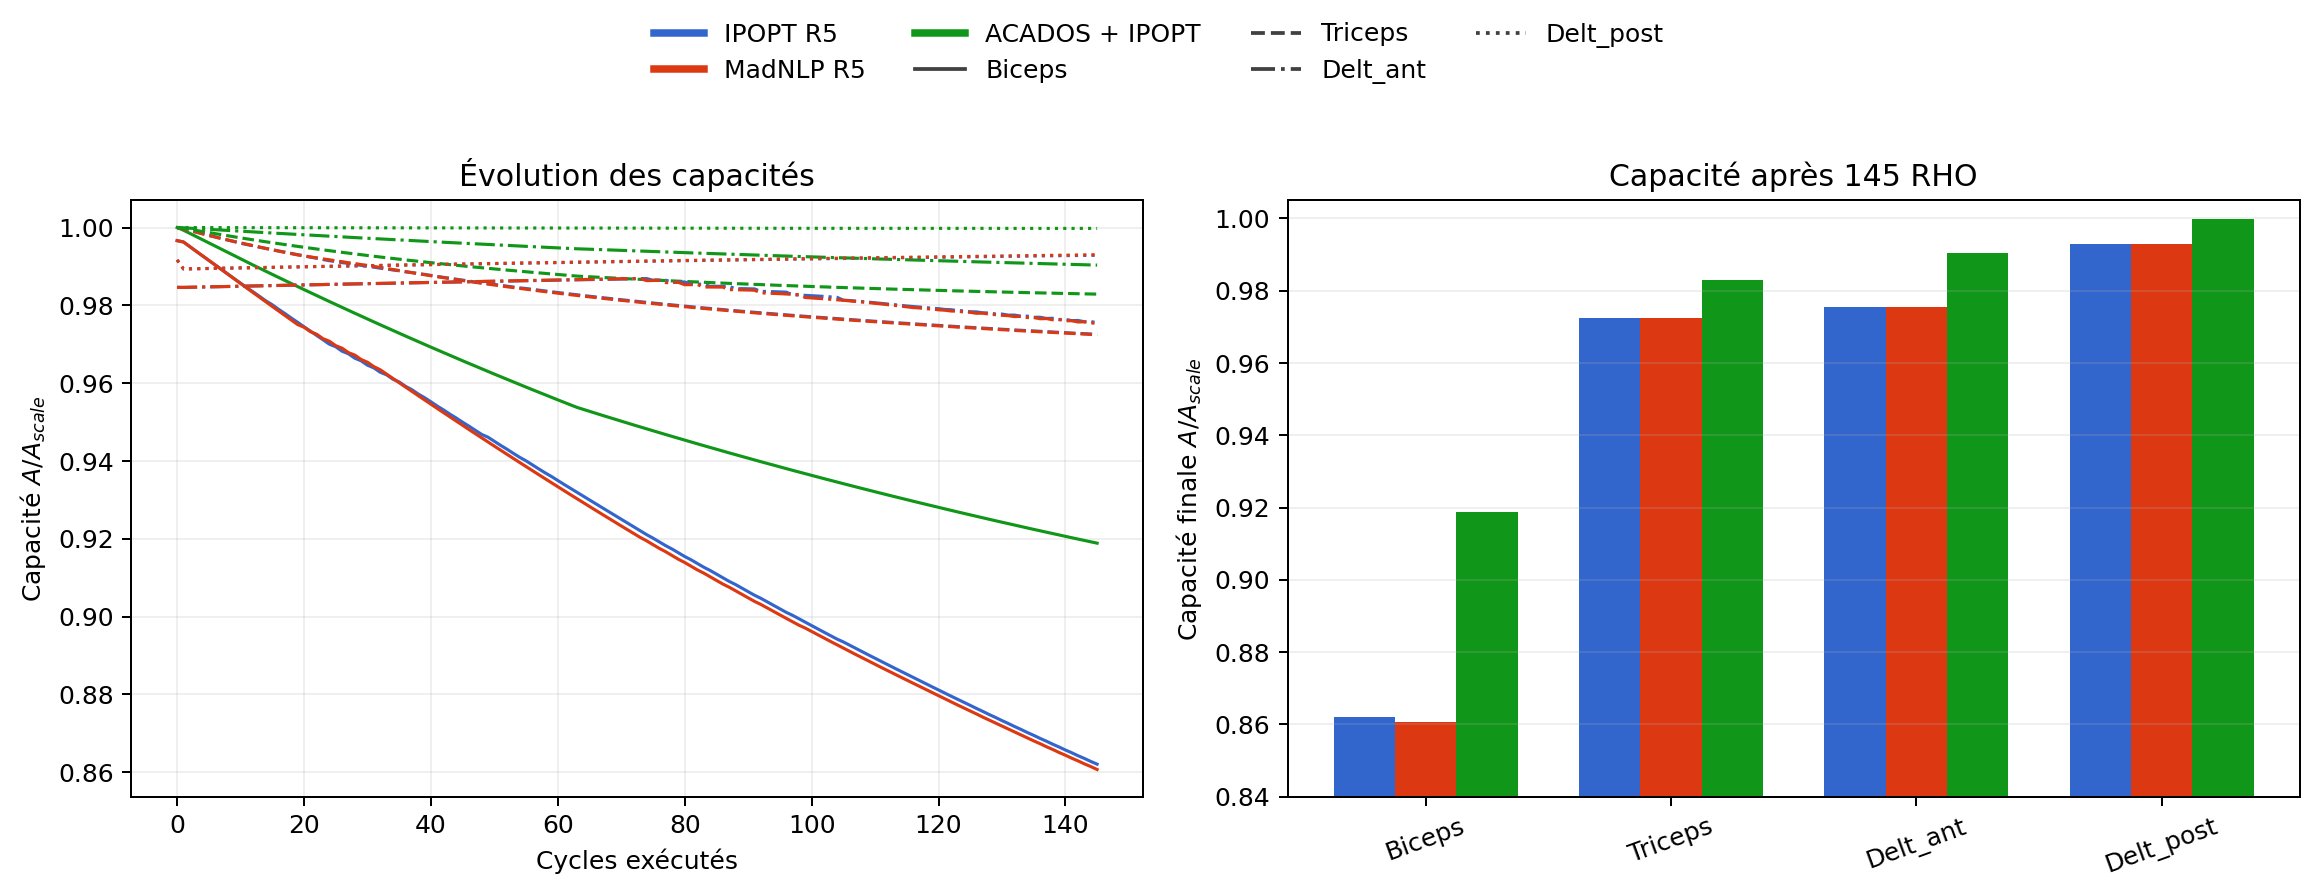
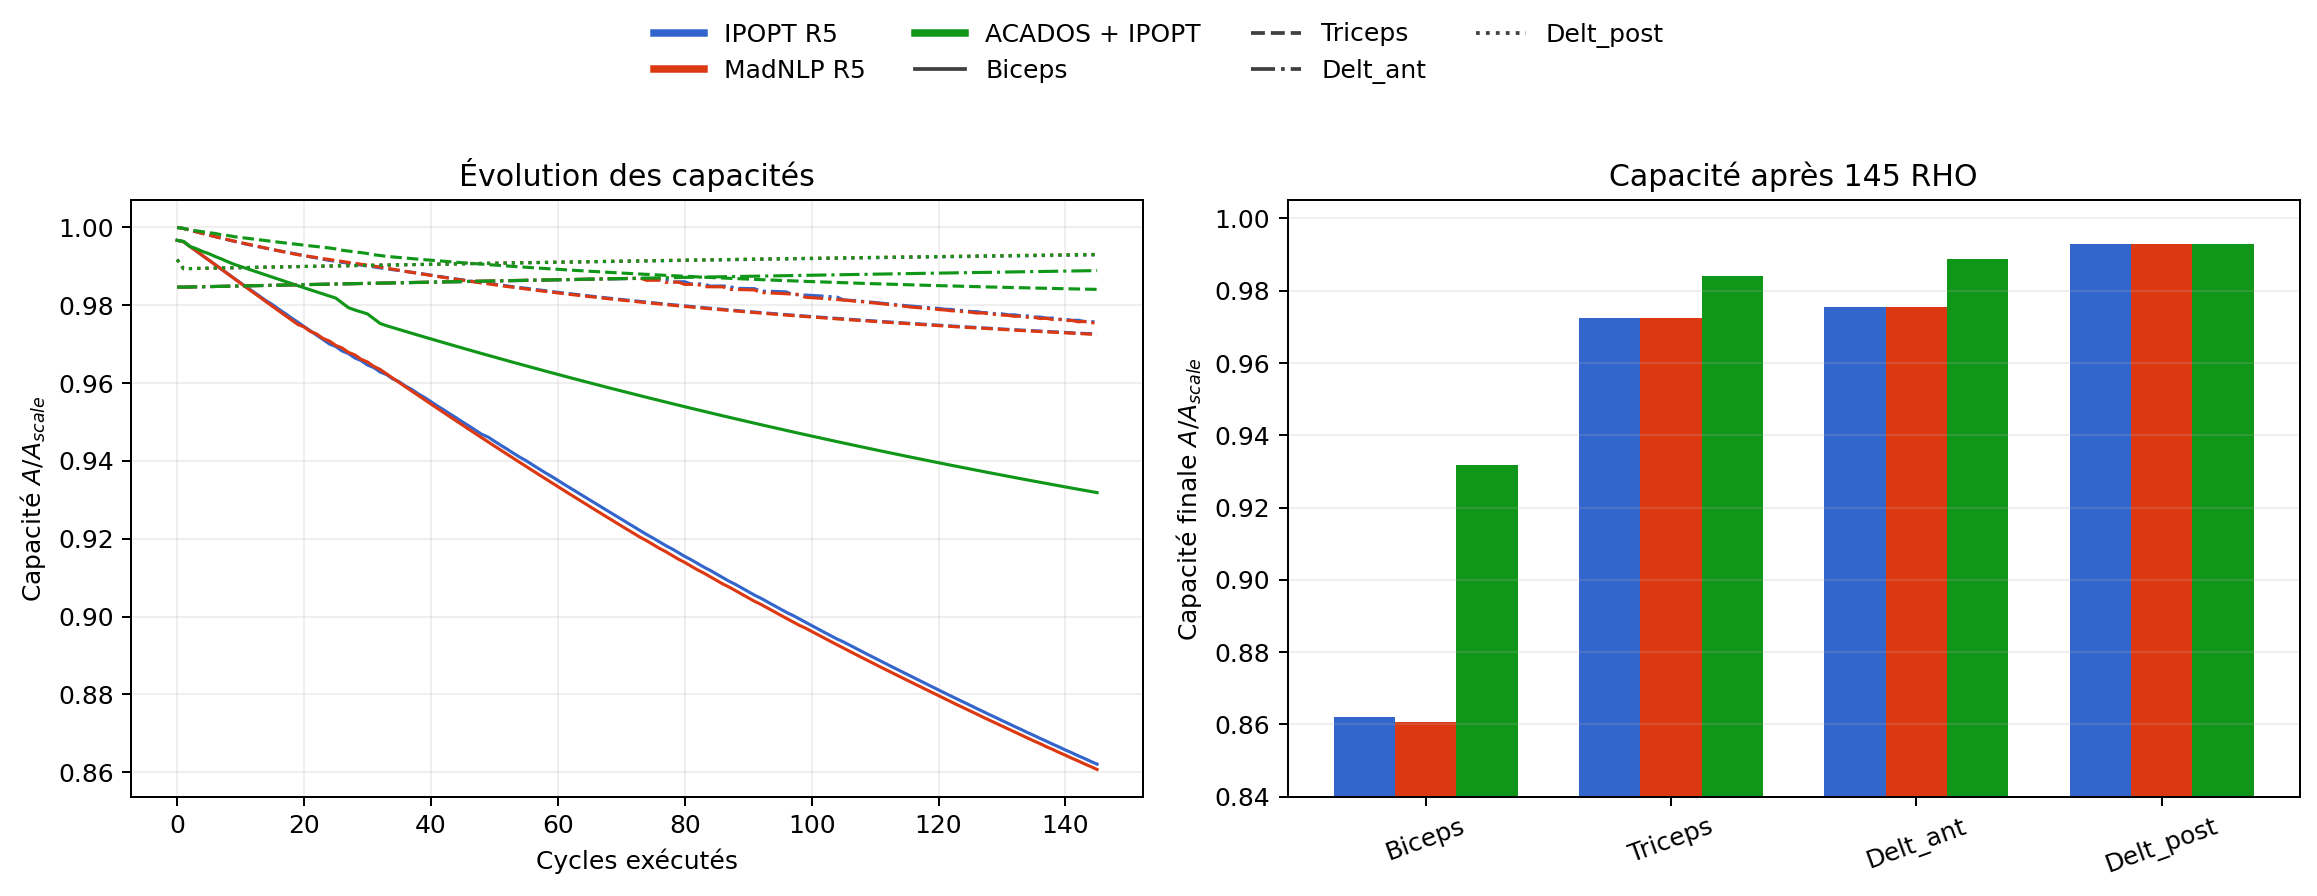
Publish paired reduced solver comparison

diff --git a/docs/cycling_solver_benchmark/generate_reduced_solver_comparison.py b/docs/cycling_solver_benchmark/generate_reduced_solver_comparison.py
@@ -19,9 +19,9 @@ import numpy as np
 MUSCLES = ("Biceps", "Triceps", "Delt_ant", "Delt_post")
 COLORS = {"IPOPT R5": "#3366cc", "MadNLP R5": "#dc3912", "ACADOS + IPOPT": "#109618"}
 DEFAULT_SOURCE_RUNS = {
-    "IPOPT R5": 31380186719,
-    "MadNLP R5": 31380186719,
-    "ACADOS + IPOPT": 31428024125,
+    "IPOPT R5": 31441917891,
+    "MadNLP R5": 31441917891,
+    "ACADOS + IPOPT": 31494271965,
 }
 PW_MIN_US = 131.405
 PW_MAX_US = 600.0
@@ -377,7 +377,12 @@ def _plot_timing(data: dict, cycles: int, output: Path) -> None:
     names = list(data)
     medians = [data[name]["timing"]["hot_solver_median_s"] for name in names]
     p90s = [data[name]["timing"]["hot_solver_p90_s"] for name in names]
-    totals = [data[name]["timing"]["online_wall_total_s"] for name in names]
+    solve_chain_totals = [
+        data[name]["timing"]["online_wall_total_s"] for name in names
+    ]
+    pipeline_totals = [
+        data[name]["timing"]["rho_pipeline_wall_total_s"] for name in names
+    ]
     fig, axes = plt.subplots(1, 2, figsize=(11, 4.8))
     x = np.arange(len(names))
     axes[0].bar(
@@ -403,11 +408,29 @@ def _plot_timing(data: dict, cycles: int, output: Path) -> None:
     axes[0].set_title("Latence en ligne")
     axes[0].legend(frameon=False)
     axes[0].grid(axis="y", alpha=0.2)
-    bars = axes[1].bar(x, totals, color=[COLORS[n] for n in names], alpha=0.85)
+    solve_bars = axes[1].bar(
+        x - 0.18,
+        solve_chain_totals,
+        0.36,
+        color=[COLORS[n] for n in names],
+        alpha=0.85,
+        label="appels solveur",
+    )
+    pipeline_bars = axes[1].bar(
+        x + 0.18,
+        [np.nan if value is None else value for value in pipeline_totals],
+        0.36,
+        color=[COLORS[n] for n in names],
+        hatch="//",
+        alpha=0.45,
+        label="pipeline RHO complet",
+    )
     axes[1].set_xticks(x, names, rotation=15)
-    axes[1].set_ylabel("Temps mur-à-mur en ligne cumulé (s)")
-    axes[1].set_title(f"Somme des {cycles} fenêtres")
-    axes[1].bar_label(bars, fmt="%.1f s", padding=3)
+    axes[1].set_ylabel("Temps mur-à-mur cumulé (s)")
+    axes[1].set_title(f"Somme des {cycles} RHO après construction")
+    axes[1].bar_label(solve_bars, fmt="%.1f s", padding=3)
+    axes[1].bar_label(pipeline_bars, fmt="%.1f s", padding=3)
+    axes[1].legend(frameon=False)
     axes[1].grid(axis="y", alpha=0.2)
     fig.tight_layout()
     fig.savefig(output, dpi=180, bbox_inches="tight")

diff --git a/docs/cycling_solver_benchmark/README.md b/docs/cycling_solver_benchmark/README.md
@@ -1313,34 +1313,34 @@ aucune assistance externe, mécanique reduced, force passive active, calcium
 `exact_exponential_periodic_node` et PW dans
 `[pd0 = 131.405 µs, 600 µs]`. IPOPT/MUMPS et MadNLP/MUMPS utilisent
 SX/Radau-5; ACADOS utilise le profil SQP-IRK `4 stages × 5 steps`. Le nom
-« ACADOS + IPOPT » désigne la chaîne de production hybride, mais aucun fallback
-n'est déclenché dans les 145 premiers RHO de ce run. Le premier fallback
-accepté se trouve au RHO 234.
+« ACADOS + IPOPT » désigne la chaîne hybride : ACADOS résout normalement le
+RHO et IPOPT/Radau-5 ne peut le remplacer qu'après deux échecs ACADOS et un
+certificat indépendant de convergence et de faisabilité.
 
 Les artefacts sources sont ceux du run apparié
 [31441917891](https://github.com/mickaelbegon/cocofest/actions/runs/31441917891)
-pour IPOPT/MadNLP et du run historique
-[31428024125](https://github.com/mickaelbegon/cocofest/actions/runs/31428024125)
-pour ACADOS + IPOPT. Les temps ci-dessous sont les sommes des champs
-`wall_time_s` des 145 fenêtres : ils excluent la construction initiale, la
-préparation du seed et le post-traitement, conformément à la question du temps
-de résolution une fois l'OCP construit.
+pour IPOPT/MadNLP et du run apparié et physiquement certifié
+[31494271965](https://github.com/mickaelbegon/cocofest-pedalage/actions/runs/31494271965)
+pour ACADOS + IPOPT. Les trois trajectoires partent du même état initial. Les
+temps excluent la construction initiale. « Appels solveur » additionne tous les
+essais, échecs et recoveries; « pipeline » mesure toute la boucle RHO, transfert
+et orchestration Bioptim compris.
 
-| Méthode | RHO certifiés | Médiane / P90 solveur chaud | Temps online cumulé | AUC fatigue | Coût fatigue exécuté | Min. capacité finale |
-|---|---:|---:|---:|---:|---:|---:|
-| IPOPT R5 | 145/145 | `2.649 / 4.130 s` | `529.92 s` | `17.1324` | `11 523.5` | `0.86209` |
-| MadNLP R5 | 145/145 | `1.433 / 1.669 s` | `220.60 s` | `17.3066` | `11 830.6` | `0.86072` |
-| ACADOS + IPOPT | 145/145 | `0.133 / 0.134 s` | `21.02 s` | `9.3835` | `4 317.8` | `0.91888` |
+| Méthode | RHO certifiés | Médiane / P90 chaud | Appels solveur | Pipeline RHO | AUC fatigue | Coût exécuté | Min. capacité finale |
+|---|---:|---:|---:|---:|---:|---:|---:|
+| IPOPT R5 | 145/145 | `2.649 / 4.130 s` | `529.92 s` | `786.42 s` | `17.1324` | `11 523.5` | `0.86209` |
+| MadNLP R5 | 145/145 | `1.433 / 1.669 s` | `220.60 s` | `438.95 s` | `17.3066` | `11 830.6` | `0.86072` |
+| ACADOS + IPOPT | 145/145 | `0.124 / 0.319 s` | `93.44 s` | `107.23 s` | `10.6541` | `3 471.2` | `0.93183` |
 
 La fatigue finale et son accumulation ne se répartissent pas uniformément. Le
 tableau donne `capacité finale A/A_scale / AUC de fatigue` :
 
 | Muscle | IPOPT R5 | MadNLP R5 | ACADOS + IPOPT |
 |---|---:|---:|---:|
-| Biceps | `0.86209 / 10.9379` | `0.86072 / 11.0917` | `0.91888 / 6.8584` |
-| Triceps | `0.97256 / 2.5136` | `0.97245 / 2.5251` | `0.98288 / 1.6916` |
-| Deltoïde antérieur | `0.97554 / 2.4094` | `0.97548 / 2.4271` | `0.99034 / 0.8113` |
-| Deltoïde postérieur | `0.99287 / 1.2715` | `0.99300 / 1.2627` | `0.99978 / 0.0222` |
+| Biceps | `0.86209 / 10.9379` | `0.86072 / 11.0917` | `0.93183 / 5.9230` |
+| Triceps | `0.97256 / 2.5136` | `0.97245 / 2.5251` | `0.98404 / 1.5594` |
+| Deltoïde antérieur | `0.97554 / 2.4094` | `0.97548 / 2.4271` | `0.98886 / 1.9089` |
+| Deltoïde postérieur | `0.99287 / 1.2715` | `0.99300 / 1.2627` | `0.99300 / 1.2628` |
 
 Sur ce préfixe, MadNLP est `1.85×` plus rapide qu'IPOPT en médiane chaude et
 `2.40×` sur la somme online. Leurs solutions sont proches : par rapport à
@@ -1350,18 +1350,20 @@ triceps; les MAE correspondantes valent `4.33 µs` et `1.55 µs`. Elles ne sont
 cependant pas identiques : un changement isolé d'ensemble actif atteint
 `468.6 µs` au biceps.
 
-ACADOS est `25.2×` plus rapide qu'IPOPT et `10.5×` plus rapide que MadNLP sur
-la somme online de ces 145 fenêtres. Il produit aussi une AUC `45.2 %` plus
-faible qu'IPOPT et conserve une capacité biceps finale de `0.91888`, contre
-`0.86209`. Ce résultat ne permet **pas encore** d'affirmer qu'ACADOS trouve un
-meilleur optimum du même problème. Ses PW biceps sont très différentes de
-celles d'IPOPT (`MAE = 40.14 µs`, corrélation `-0.052`) et, surtout, les
-trajectoires historiques n'ont pas exactement le même état musculaire initial :
-ACADOS part de `A/A_scale = 1` pour les quatre muscles, tandis que le seed
-IPOPT/MadNLP vaut initialement `0.99663` au biceps, `0.98463` au deltoïde
-antérieur, `0.99169` au deltoïde postérieur et `0.99992` au triceps. Une partie
-de l'écart de fatigue est donc antérieure aux décisions comparées. Les
-transcriptions Radau-5 et IRK sont également différentes.
+Le pipeline hybride est `7.33×` plus rapide qu'IPOPT et `4.09×` plus rapide
+que MadNLP. Seuls les RHO 25, 26, 30 et 31 sont avancés par IPOPT; ACADOS
+reprend seul jusqu'au RHO 145. Les huit recoveries IPOPT coûtent `26.68 s`.
+L'audit IRK dense ne relève aucune violation de vitesse et l'angle terminal
+respecte le slack absolu `0.002 rad`.
+
+ACADOS produit une AUC `37.8 %` plus faible qu'IPOPT et conserve une capacité
+biceps finale de `0.93183`. Ce résultat ne permet **pas encore** d'affirmer
+qu'il trouve un meilleur optimum du même problème. Malgré l'état initial
+désormais identique, ses PW restent très différentes : contre IPOPT, la MAE et
+la corrélation valent `37.46 µs / 0.020` au biceps et
+`10.81 µs / 0.040` au triceps. Il faut encore rejouer les PW ACADOS sous
+Radau-5 puis raffiner ce primal avec IPOPT pour séparer un meilleur bassin
+local d'un écart de transcription IRK/Radau-5.
 
 ![Profils de PW aux RHO 1, 30, 100 et 145](figures/reduced_solver_comparison_145/reduced_solver_pw_profiles_145.png)
 
@@ -1378,39 +1380,14 @@ sur tous les points exportés de chaque transcription et écrit les figures ains
 que le résumé numérique
 [`reduced_solver_comparison_145.json`](figures/reduced_solver_comparison_145/reduced_solver_comparison_145.json).
 
-La campagne décisive a ensuite imposé le **même état initial numérique**, la
-même cible terminale et les mêmes bornes mobiles. Elle révèle une limite de
-warm-start plutôt qu'un résultat comparable supplémentaire. ACADOS résout
-`145/145` avec la marge nodale `3.0 rad/s`, mais l'audit inter-nœuds mesure un
-overshoot rapide de `0.4000 rad/s`; cette trajectoire est donc rejetée. Avec la
-garde conservatrice `2.55 rad/s`, le seed commun ne donne aucun RHO certifié.
-Une continuation de la borne basse de `omega` a été testée jusqu'à des pas de
-`0.01 rad/s` et 300 SQP offline : les runs
-[31448682164](https://github.com/mickaelbegon/cocofest/actions/runs/31448682164),
-[31449332788](https://github.com/mickaelbegon/cocofest/actions/runs/31449332788)
-et
-[31449892535](https://github.com/mickaelbegon/cocofest/actions/runs/31449892535)
-restent sur la branche rapide et s'arrêtent finalement entre les marges
-`2.76` et `2.75 rad/s`. Le dernier résidu de contrainte vaut `3.33e-3` après
-300 SQP. Le gain de temps ACADOS est donc démontré sur son run certifié, mais
-son gain apparent de fatigue ne peut pas être attribué au solveur avec ce
-protocole.
-
-La prochaine méthode pertinente n'est plus de réduire encore le pas. Il faut
-partir d'un contrôle ACADOS déjà certifié sous la garde `2.55`, remplacer
-seulement son état initial par l'état commun, puis résoudre une Phase I qui
-minimise les défauts mécaniques et musculaires avant l'objectif de fatigue.
-Cette primale pourra ensuite initialiser la comparaison appariée; ses PW et ses
-20 états Ding devront être audités avant toute interprétation de l'optimum.
-
-La cause du désappariement historique est localisée : l'import du seed commun
-remplaçait `x_init`, mais ACADOS reduced conservait les bornes du premier nœud
-aux valeurs de repos parce que son warmup IPOPT standard était volontairement
-désactivé. Le workflow fixe désormais explicitement les bornes du premier
-nœud sur le seed importé avec
-`--common-initial-solution-recenter-first-node-bounds`. Ce changement est une
-correction du protocole expérimental; ses nouveaux coûts et temps ne doivent
-pas être mélangés avec les valeurs historiques ci-dessus avant la relance.
+La correction qui rend cette campagne possible conserve la boîte nodale
+physique `omega in [-2*pi-3, -2*pi+3]` et impose aux 30 shooting nodes une
+garde de milieu d'intervalle
+`omega_hat = omega + dt/2*f_omega(theta, omega, F, tau_ext)`. Elle remplace la
+marge nodale artificielle `2.55 rad/s`, qui rendait la fermeture angulaire
+infaisable, tout en éliminant l'overshoot dense de `0.400 rad/s` observé avec
+les seules bornes nodales. Le prédicteur reste une approximation économique;
+l'audit dense demeure donc obligatoire.
 
 ## 7. Reproductibilité
 

diff --git a/docs/cycling_solver_benchmark/development_history.md b/docs/cycling_solver_benchmark/development_history.md
@@ -5180,3 +5180,50 @@ dominant (`42.27 s`), alors que la boucle RHO coûte `0.369 s/cycle` murale. Ce
 smoke valide la formulation et autorise maintenant la comparaison appariée sur
 145 RHO; il ne suffit pas encore à conclure sur la fatigue longue ni les sauts
 de PW.
+
+Le premier run long strict,
+[`31492324017`](https://github.com/mickaelbegon/cocofest-pedalage/actions/runs/31492324017),
+certifie 24 RHO puis ACADOS plafonne au RHO 25 avec un défaut dynamique de
+`1.65e-4`. Deux solves IPOPT/Radau-5 du même RHO convergent pourtant avec une
+infaisabilité certifiée de `1.41e-8`. Réinjecter leur primal dans ACADOS
+reproduit le même résidu : la fatigue n'est pas la cause et exiger une nouvelle
+certification ACADOS perd une solution NLP valide.
+
+Le mode hybride autorise donc IPOPT à faire avancer exceptionnellement un RHO
+après les deux échecs ACADOS prévus. Le run intermédiaire
+[`31493109875`](https://github.com/mickaelbegon/cocofest-pedalage/actions/runs/31493109875)
+valide ce mécanisme au RHO 25, mais s'arrête au RHO 26. La cause était un
+compteur interne Bioptim : il voyait encore les statuts ACADOS bruts `2` et ne
+savait pas que le fallback certifié avait remis à zéro la série d'échecs
+physiques. Le budget interne possède maintenant assez de marge pour tous les
+fallbacks possibles; la règle scientifique reste contrôlée séparément et
+n'accepte que les solutions IPOPT convergées et faisables.
+
+La campagne corrigée
+[`31494271965`](https://github.com/mickaelbegon/cocofest-pedalage/actions/runs/31494271965)
+certifie finalement `145/145` RHO. IPOPT remplace seulement les RHO 25, 26, 30
+et 31; ACADOS reprend seul pour les 114 derniers cycles. La trace IRK dense
+reste dans la boîte physique : minimum `-9.2831853059 rad/s`, zéro violation
+de vitesse et erreur terminale absolue dans le slack `0.002 rad`.
+
+Après construction, la boucle RHO complète dure `107.23 s`, soit
+`0.740 s/RHO`; les appels ACADOS et IPOPT cumulés représentent `93.44 s` de
+temps mural. La médiane chaude ACADOS reste `0.142 s` et le P90 `0.337 s`.
+Les huit solves IPOPT de recovery coûtent `26.68 s` et produisent quatre
+fallbacks. La comparaison appariée donne :
+
+| méthode | pipeline RHO | appels solveur | AUC fatigue | coût exécuté | capacité finale minimale |
+|---|---:|---:|---:|---:|---:|
+| IPOPT R5 | `786.42 s` | `529.92 s` | `17.1324` | `11 523.5` | `0.86209` |
+| MadNLP R5 | `438.95 s` | `220.60 s` | `17.3066` | `11 830.6` | `0.86072` |
+| ACADOS + IPOPT | `107.23 s` | `93.44 s` | `10.6541` | `3 471.2` | `0.93183` |
+
+Les états initiaux sont maintenant identiques. Cependant, les contrôles ACADOS
+restent sur une autre branche : par rapport à IPOPT, la MAE des PW vaut
+`37.46 us` au biceps et `10.81 us` au triceps, avec des corrélations de
+seulement `0.020` et `0.040`. IPOPT et MadNLP sont beaucoup plus cohérents
+entre eux (`4.33 us`/`0.953` au biceps, `1.55 us`/`0.920` au triceps). La
+fatigue ACADOS plus faible est donc un résultat prometteur, mais pas encore la
+preuve d'un meilleur optimum du même NLP : il faut rejouer ses PW sous
+Radau-5 et raffiner le primal complet avec IPOPT avant d'attribuer l'écart au
+solveur plutôt qu'à la transcription IRK ou au bassin local.

diff --git a/docs/cycling_solver_benchmark/resume_and_todo.md b/docs/cycling_solver_benchmark/resume_and_todo.md
@@ -717,6 +717,22 @@ modèle, d'interface ou d'algorithme invalide le résultat négatif précédent.
     erreur angulaire finale `0.00199996 rad`. Lancer 145 RHO depuis le même
     seed commun, conserver le préfixe certifié, puis comparer contrôles,
     fatigues finales/AUC et temps à IPOPT et MadNLP sur le préfixe commun.
+    [fait, runs `31492324017`, `31493109875`, `31494271965`] Le run strict
+    s'arrête au RHO 25 malgré deux recoveries IPOPT certifiées. Le fallback
+    initial a ensuite exposé le compteur d'échecs natifs Bioptim, qui ne se
+    réinitialisait pas après un RHO avancé par IPOPT. La correction conserve
+    les statuts ACADOS bruts pour l'audit mais confie l'arrêt au compteur
+    physique. Le run final valide `145/145`, avec quatre fallbacks aux RHO
+    25, 26, 30 et 31, puis ACADOS seul jusqu'au RHO 145. Pipeline : `107.23 s`;
+    audit dense valide; figures appariées régénérées.
+27. Rejouer les contrôles ACADOS des RHO 1, 25, 31, 100 et 145 dans le modèle
+    Radau-5, puis lancer un raffinement IPOPT depuis le primal ACADOS. Comparer
+    le coût avant/après, les défauts Ding et les PW afin de séparer bassin
+    local et erreur de transcription IRK/Radau.
+28. Tester une petite régularisation inter-RHO uniquement sur les transitions
+    d'ensemble actif des premiers 35 cycles. Exiger que les quatre AUC et le
+    coût exécuté restent dans une tolérance annoncée; ne pas borner le slew
+    globalement avant cette ablation.
 
 La question causale est maintenant resserrée : une seule projection au RHO 19
 ne suffit pas, mais la séquence 19--36 conserve le bassin franchissant le RHO
